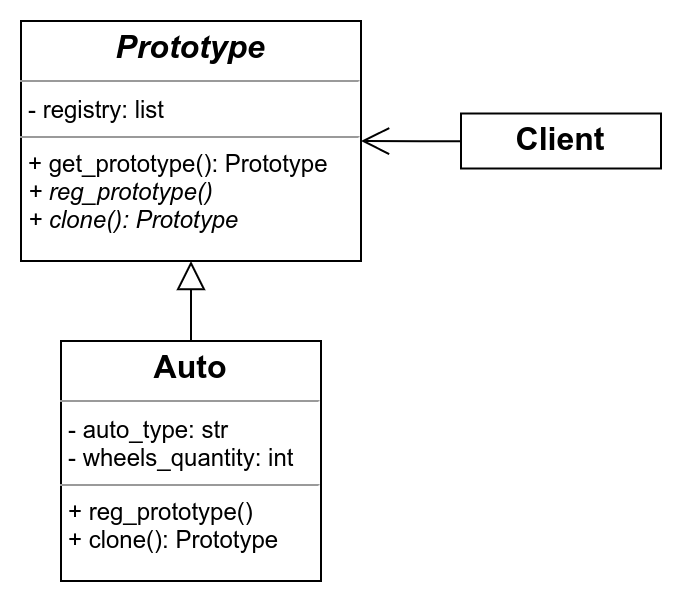
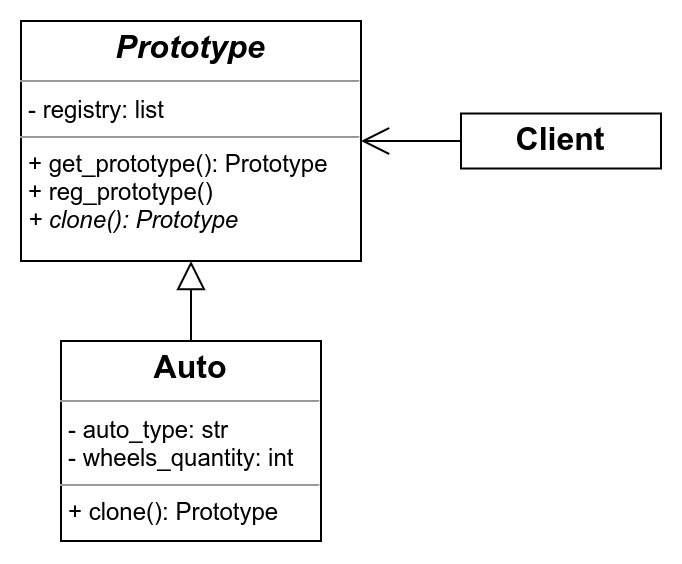
Prototype code refactoring and UML update

Changed region(s): [[0.0308, 0.0301, 0.6774, 0.5124], [0.0924, 0.5426, 0.4619, 0.9645], [0.6774, 0.1809, 0.9853, 0.3014]]

diff --git a/creational/prototype.py b/creational/prototype.py
@@ -6,16 +6,18 @@ import copy
 class Prototype(ABC):
     registry = []
 
-    @abstractmethod
-    def reg_prototype():
-        pass
-
     @classmethod
     def get_prototype(cls):
         prototype_object = Prototype.registry[0]
         new_object = prototype_object
         new_object.__dict__.update(prototype_object.__dict__)
         return new_object
+
+    def reg_prototype(self):
+        Prototype.registry.append(
+            self.__class__(self.auto_type, self.wheels_quantity)
+            )
+        return None
 
     @abstractmethod
     def clone():
@@ -36,12 +38,6 @@ class Auto(Prototype):
         clone = copy.copy(self)
         return clone
 
-    def reg_prototype(self):
-        Prototype.registry.append(
-            self.__class__(self.auto_type, self.wheels_quantity)
-            )
-        return None
-
 
 if __name__ == '__main__':
     auto = Auto('Bus', 4)
@@ -50,7 +46,9 @@ if __name__ == '__main__':
     # get new object from prototype registry
     prototype = Prototype.get_prototype()
     print(prototype)
+    print(prototype.auto_type)
 
     # get new object from clone method
     clone = auto.clone()
     print(clone)
+    print(clone.auto_type)
